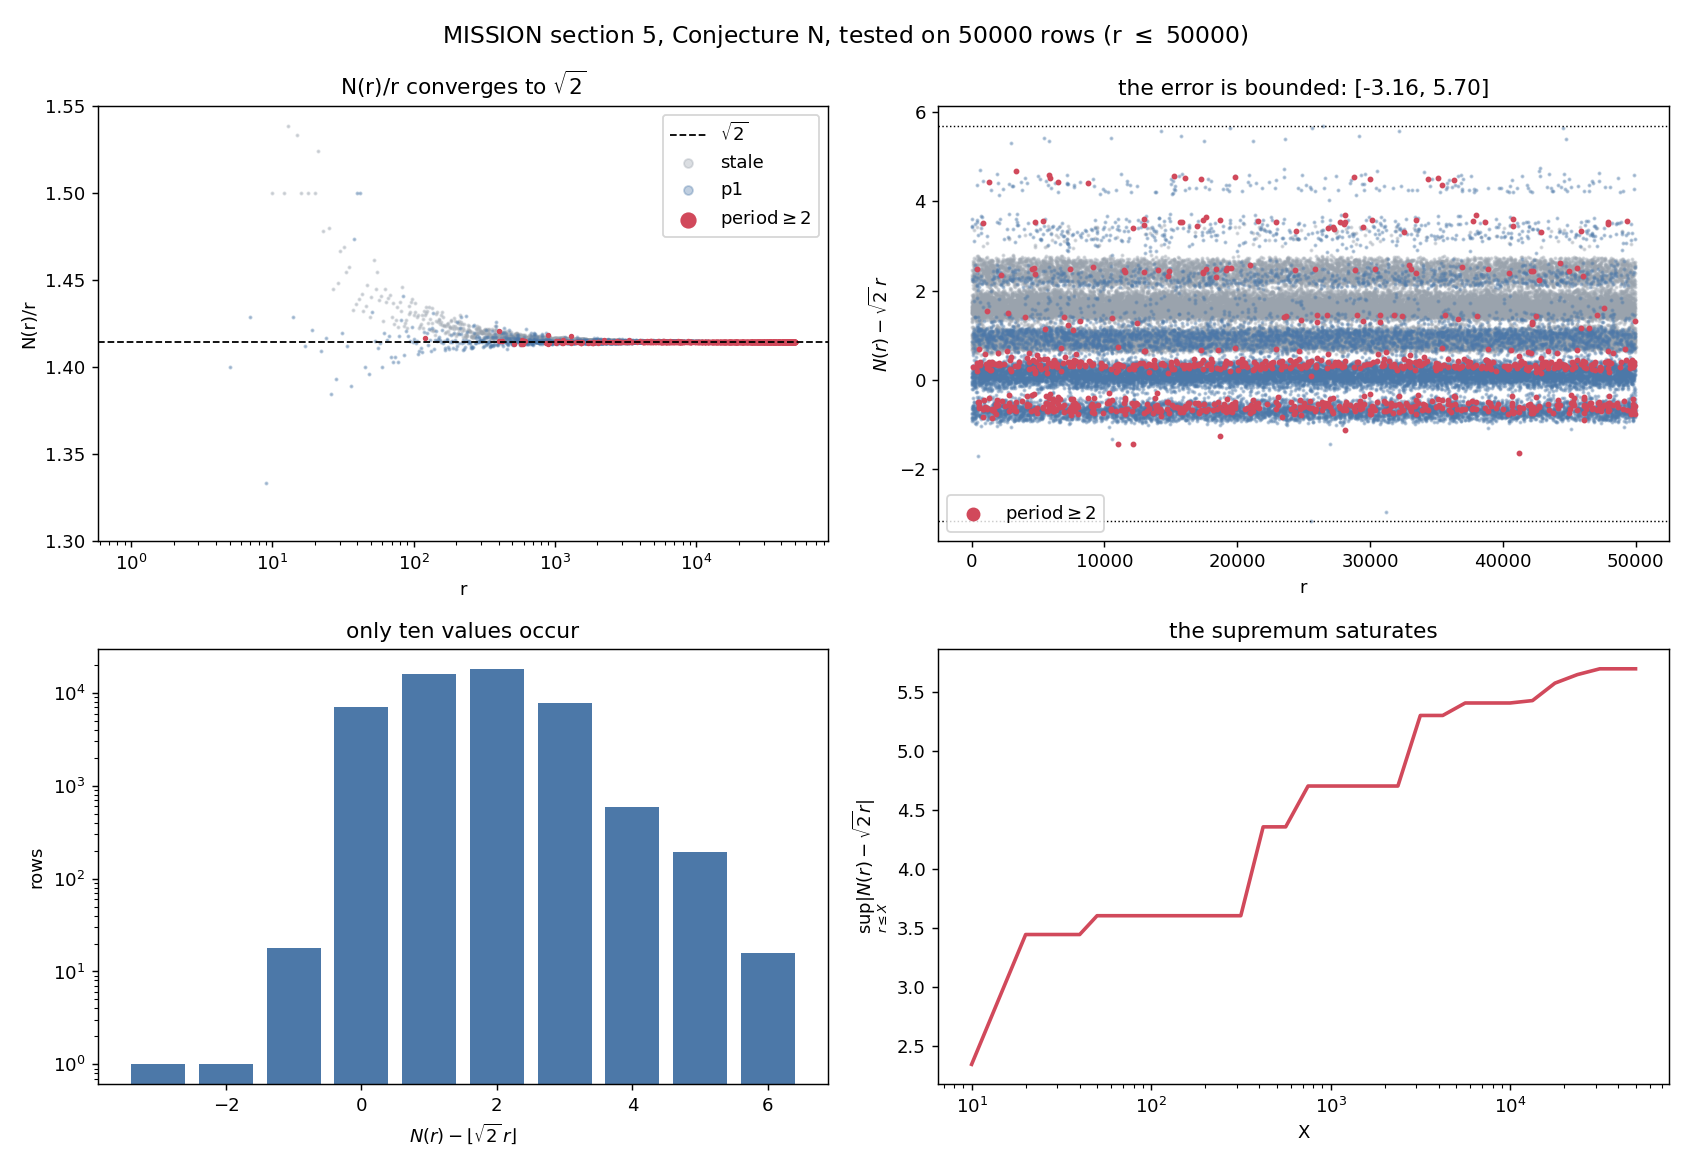
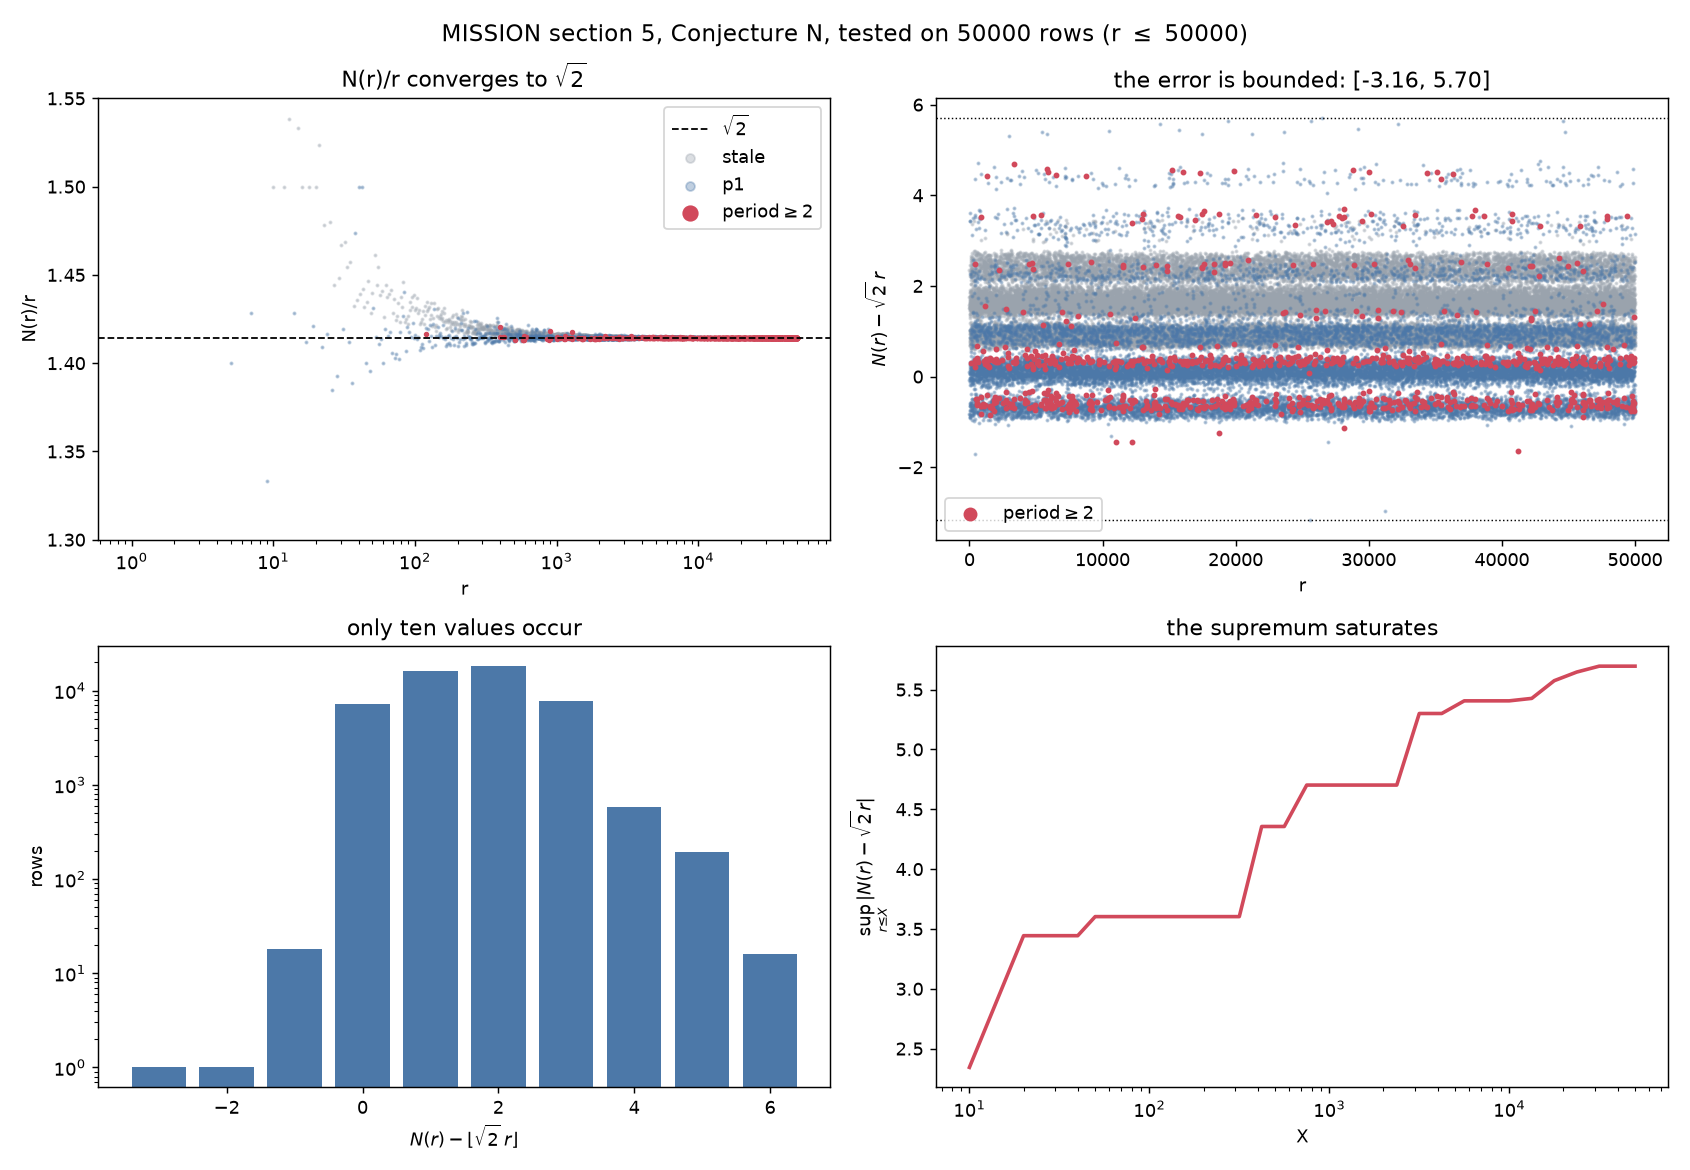
phase0: validated solver, seeded ledger

diff --git a/GROUND_TRUTH/seed_check.md b/GROUND_TRUTH/seed_check.md
@@ -16,7 +16,7 @@ So the project's target -- *any* explicit computable bound on `N(r)` -- is numer
 
 `N(r)` is read off the solver's census: the least `q0` such that `f(q,r) - q` is exactly periodic for all `q >= q0`, computed online as `1 + max{q : d(q) != d(q+pi)}` for the minimal eventual period `pi`.
 
-Census file: `C:/Users/sidan/Desktop/Mine/compsci/personal_websites/chomp-harness/chomp/GROUND_TRUTH/cache/census_50000.tsv` (r <= 50000).  The solver is validated by `GROUND_TRUTH/tests/` against Brouwer's 325-cell table, eight OEIS sequences, the r=120 anomaly and Nivasch's full period census; every one of the nine `(r, start)` pairs in MISSION.md section 5 is reproduced exactly.
+Census file: `GROUND_TRUTH/cache/census_50000.tsv` (r <= 50000).  The solver is validated by `GROUND_TRUTH/tests/` against Brouwer's 325-cell table, eight OEIS sequences, the r=120 anomaly and Nivasch's full period census; every one of the nine `(r, start)` pairs in MISSION.md section 5 is reproduced exactly.
 
 
 **Horizon robustness.** Each column is finalised at `q = 1.8r + 600` once periodicity has held for `max(300, r/4)` steps.  Re-running with horizons of `3r`, `4r` and `6r` and confirmation windows up to 2000 changes **no** `N(r)`, period or pattern (0 differences for r <= 6000 at 6r, and for r <= 20000 at 3r).  The preperiods are not horizon artefacts.
@@ -34,7 +34,7 @@ Census file: `C:/Users/sidan/Desktop/Mine/compsci/personal_websites/chomp-harnes
 | 10000-24999 | 15000 | 1.414279 | 0.000066 | +1.069 | -1.435 | +5.647 |
 | 25000-49999 | 25000 | 1.414244 | 0.000029 | +1.087 | -3.157 | +5.696 |
 
-The mean tracks `sqrt(2) = 1.414214` and the spread falls like `1/r` (sd drops by ~185x from the 100-400 band to the 25000-50000 band, while `r` grows ~100x) -- exactly the signature of a bounded numerator, not of `o(r)` drift.
+The mean tracks `sqrt(2) = 1.414214` and the spread falls like `1/r`: the sd drops ~6450x from the 1-99 band to the 25000-49999 band while `r` grows ~743x -- exactly the signature of a bounded numerator, not of `o(r)` drift.
 
 
 ## 3. Does it tighten? Yes, and the sup saturates
